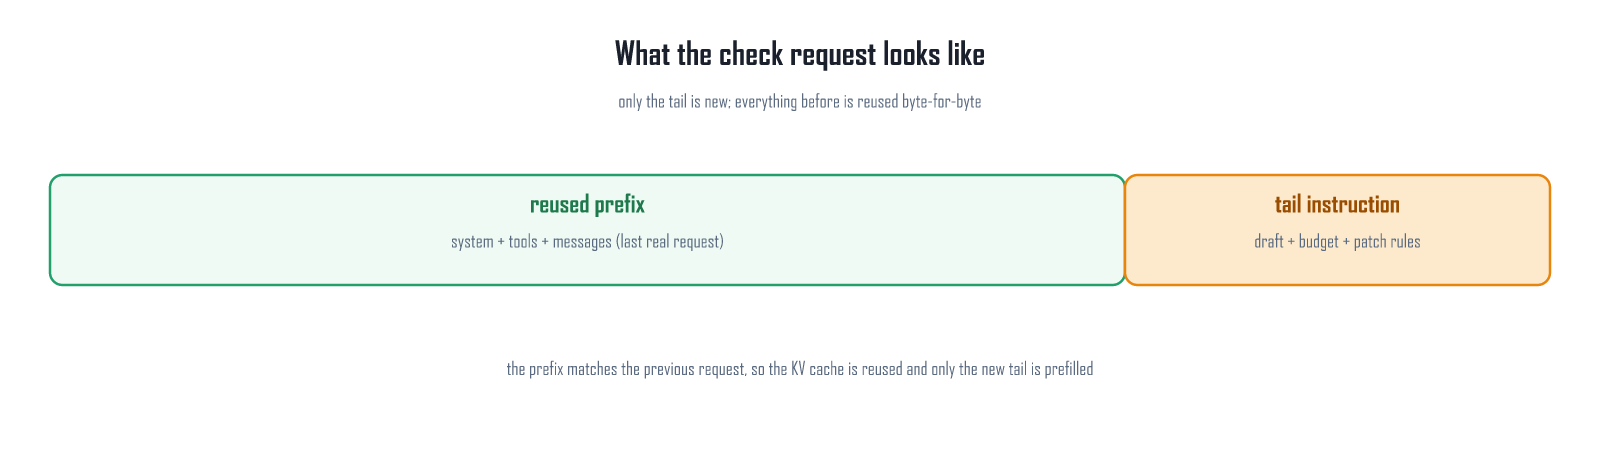
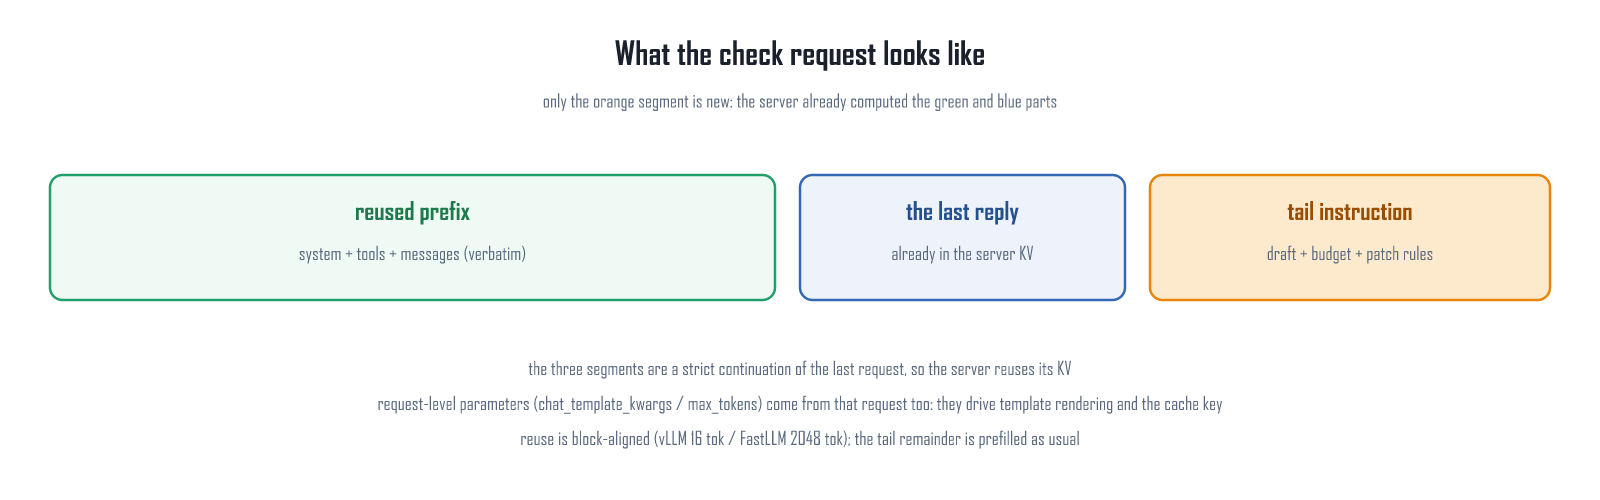
Document the continuation and wire-parameter rules in the README and figure
README (zh/en): the check-request section now describes the appended last
reply and the restored request-level parameters, plus block-aligned cache hits.

02-request figure (zh/en): three segments (reused prefix / the last reply / the
tail instruction) with captions for the continuation rule, the parameter rule
and the block alignment; render.mjs, verify.mjs and probe-pixels.mjs pass
(ink probe now scans a few offsets inside the first glyph cell, CJK glyphs
have side bearings and a single sample point could land in a gap).

diff --git a/README.en.md b/README.en.md
@@ -90,11 +90,28 @@ happens on the `session_before_compact` event — after receiving the
   snapshot stores the agent-format messages the model actually saw (with the
   same substitution as pi's `convertToLlmWithBlockImages` when
   `images.blockImages` is enabled);
+- **the last reply**: before the tail instruction the check request appends
+  one more assistant message — the last reply the session gained after the
+  snapshot. The server generated that reply moments ago and still holds its
+  KV, so appending it makes the check request a **strict continuation** of
+  the last request (exactly the relationship normal turns have with each
+  other) and the server agrees to reuse the prefix. Without it the token
+  stream diverges from the sequence stored in the slot right at the snapshot
+  boundary;
 - **tools**: taken only from the `before_provider_request` payload (the last
   request's own wire tools, including order); the check request goes out
   through a custom fetch, and the outgoing body's `tools` are replaced with
   this **original wire tools** — structurally byte-identical (pi-ai's own
   reconstruction never reaches the wire);
+- **request-level parameters**: the same custom fetch writes the last
+  request's request-level parameters back onto the outgoing body
+  (`chat_template_kwargs`, `max_tokens`, `store`, sampling, ...). Two reasons:
+  (1) `chat_template_kwargs` feeds **server-side template rendering** — flip
+  `enable_thinking` (true on agent turns, false by default on the
+  `complete()` check call) and the rendered token sequence changes, so a
+  byte-identical message prefix still misses; (2) some servers (measured:
+  FastLLM) also key the prefix cache on `max_tokens`. `model` / `messages` /
+  `tools` are owned by the extension and never overwritten;
 - **Byte-level re-verification**: on round 1 the outgoing body is
   prefix-compared against the last real request's wire body (system / tools /
   messages); the result goes to the `checkPrefix` log (`identical` +
@@ -104,7 +121,8 @@ happens on the `session_before_compact` event — after receiving the
   cannot cause false alarms;
 - **Framework-level assertion**: `round.cacheRead ≈ prefix length`
   (`prefixSuspect` must be false) — a second line of defense on the same
-  invariant.
+  invariant. Note the hit is **block-aligned** (vLLM 16 tokens / FastLLM 2048
+  tokens); the remainder below one block is prefilled anyway.
 
 ### Failure handling
 

diff --git a/README.md b/README.md
@@ -65,13 +65,22 @@ git commit -m "bump pi-vcc"
 
 - **messages**：`context` 事件在每次 provider 请求前触发，快照保存的是模型实际看到的 agent 格式消息
   （`images.blockImages` 开启时做与 pi `convertToLlmWithBlockImages` 相同的替换）；
+- **上一轮回复**：检查请求在尾部指令之前再拼一条 assistant 消息（快照之后会话里新增的最后一条回复）。
+  服务端刚刚生成过这条回复，KV 里就有——拼上它，检查请求才是上一次请求的**严格延续**（与正常轮次
+  之间的关系完全一致），服务端才肯按前缀命中。没有它，token 流在快照结尾处就与 slot 里存的序列分叉；
 - **tools**：只从 `before_provider_request` 的 payload 取（上一次请求自己的 wire tools，含顺序）；
   检查请求经自定义 fetch 发出，出站 body 的 `tools` 被替换为这份**原始 wire tools**——构造性字节一致
   （pi-ai 自己的重建永远不上 wire）；
+- **请求级参数**：自定义 fetch 同时把上一次请求的请求级参数（`chat_template_kwargs`、`max_tokens`、
+  `store`、采样参数……）写回出站 body。两个原因：① `chat_template_kwargs` 参与**服务端模板渲染**，
+  `enable_thinking` 一变（agent 轮次为 true、`complete()` 检查请求默认 false），渲染出的 token 序列就不同，
+  前缀再字节相同也命不中；② 部分服务端（实测 FastLLM）把 `max_tokens` 也算进前缀缓存键。
+  `model` / `messages` / `tools` 由扩展自己掌控，永不被覆盖；
 - **字节级复核**：第 1 轮把出站 body 与上一次真实请求的 wire body 做前缀比较（system / tools / messages），
   结果写 `checkPrefix` 日志（`identical` + `firstDivergence`），完整 body 写 `.pi/prefix-sentinel/check-request.json`。
   基线要求新鲜（`ts ≥ 快照时刻`），旧进程/其它会话的残留不会误报；
 - **框架层断言**：`round.cacheRead ≈ 前缀长度`（`prefixSuspect` 必须为 false）——同一不变量的第二道防线。
+  注意命中按**块**对齐（vLLM 16 token / FastLLM 2048 token），不足一块的尾部本来就要 prefill；
 
 ### 失败处理
 
